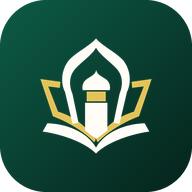
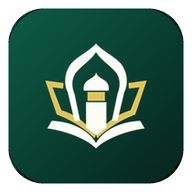
إطار أبيض حول أيقونة الحاسوب
Claude-Session: https://claude.ai/code/session_01TA8d5fFBFmwA5DvfW4jjQn

diff --git a/index.html b/index.html
@@ -40,10 +40,10 @@
         window.addEventListener('appinstalled', function () { window.__dhInstallPrompt = null; window.__dhAppInstalled = true; });
     </script>
     <link rel="manifest" href="manifest.json">
-    <link rel="apple-touch-icon" href="icons/icon-maskable-512.png?v=4">
+    <link rel="apple-touch-icon" href="icons/icon-maskable-512.png?v=5">
     <!-- 🌟 [2026-10-03] أيقونة التبويب صارت رمز شعار المنصة (SVG حاد في كل الأحجام)، والـ PNG خط رجوع للمتصفحات القديمة -->
     <link rel="icon" type="image/svg+xml" href="icons/favicon.svg">
-    <link rel="icon" type="image/png" href="icons/icon-192.png?v=4">
+    <link rel="icon" type="image/png" href="icons/icon-192.png?v=5">
     <!-- 🌟 [2026-10-03] بطاقة معاينة الرابط (واتساب وغيره): صورة ثابتة بالشعار. الصفحة ثابتة على GitHub Pages، فالبطاقة
          واحدة لكل الروابط (لا تعرض تفاصيل الواجب نفسه). الرابط مطلق لأن واتساب لا يقبل المسارات النسبية -->
     <meta name="description" content="منصة حمٓ لتثبيت الحفظ و المراجعة">

diff --git a/service-worker.js b/service-worker.js
@@ -1,5 +1,5 @@
 const MUSHAF_CACHE = 'dar-ham-mushaf-v1'; // صور صفحات المصحف (تُخزَّن عند أول عرض فقط، لا تحميل مسبق للـ604)
-const CACHE_NAME = 'dar-ham-quran-v25'; // 🌟 رُفع من v3 إلى v4 مع دمج نظام الواجبات الجديد (2026-09-25) — أي تعديل جوهري لاحق في الملفات المخزّنة يستوجب رفعه مرة أخرى
+const CACHE_NAME = 'dar-ham-quran-v26'; // 🌟 رُفع من v3 إلى v4 مع دمج نظام الواجبات الجديد (2026-09-25) — أي تعديل جوهري لاحق في الملفات المخزّنة يستوجب رفعه مرة أخرى
 
 // عند تثبيت التطبيق لأول مرة
 self.addEventListener('install', (event) => {
